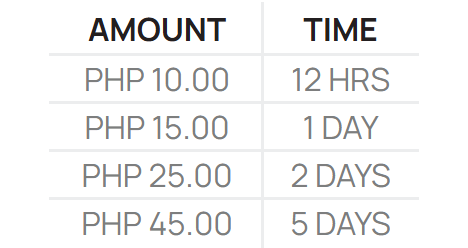
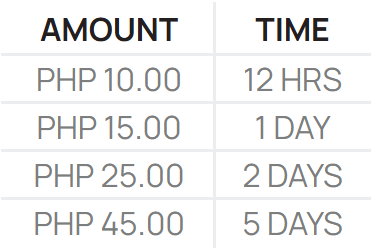
Add files via upload

diff --git a/index.css b/index.css
@@ -37,7 +37,7 @@ body.portal {
   background-attachment: fixed;
   background-color: var(--bg);
   /*background-image: url(img/bg.gif);*/
-  /*background-image: var(--bak-wall);*/
+  background-image: var(--bak-wall);
 }
 
 .disable-text-selection {
@@ -67,18 +67,14 @@ body.portal {
 }
 
 .oper-section-item {
-  font-size: 18px;
-  font-weight: 400;
+  font-size: 16px;
+  font-weight: 500;
   display: block;
-  margin-left: auto;
-  margin-top: 10px;
-  margin-right: auto;
-  margin-bottom: 15px;
+  margin-top: 20px;
+  margin-bottom: 10px;
   text-align: left;
-  border-radius: 24px;
   border: 2px solid var(--voucherline);
   width: 100%;
-  padding: 12px;
   text-decoration: none;
 }
 
@@ -87,10 +83,9 @@ body.portal {
 }
 
 ::placeholder {
-  font-size: 18px;
+  font-size: 16px;
   font-weight: 500;
   color: var(--voucherlight);
-  letter-spacing: normal;
 }
 
 .input {
@@ -98,7 +93,9 @@ body.portal {
   margin-left: auto;
   margin-right: auto;
   text-align: center;
-  font-size: 18px;
+  padding-top: 14px;
+  padding-bottom: 14px;
+  font-size: 16px;
   font-weight: 500;
   border-radius: 50px;
   background-color: var(--card);
@@ -117,7 +114,7 @@ body.portal {
 
 /* Start of input name */
 .inputName {
-  font-size: 18px;
+  font-size: 16px;
   font-weight: 500;
   color: rgb(55, 71, 79);
   text-align: left;
@@ -173,7 +170,7 @@ body.portal {
   font-family: "space-tech-italic", sans-serif;
   color: rgba(224, 74, 178);
   font-size: 40px;
-  font-weight: 400;
+  font-weight: 500;
   text-align: center;
   text-transform: lowercase;
   margin: 0;
@@ -188,9 +185,8 @@ body.portal {
   font-weight: 500;
   font-size: 14px;
   text-align: center;
-  letter-spacing: 1px;
   padding-top: 10px;
-  padding-bottom: 20px;
+  padding-bottom: 10px;
 }
 /* End of Main Greeting */
 
@@ -203,13 +199,6 @@ body.portal {
   width: min(90% - 0rem, var(--max-width));
   border-radius: 36px;
   align-items: center;
-  padding-top: 12px;
-  padding-bottom: 0px;
-  padding-left: 0px;
-  padding-right: 0px;
-  margin-left: auto;
-  margin-right: auto;
-  margin-bottom: 20px;
   clear: both;
 }
 .form-glass {

diff --git a/css/reinvent.css b/css/reinvent.css
@@ -136,22 +136,15 @@ form.sign-in-form {
 }
 
 .btn {
-  width: 150px;
   background-color: var(--rates);
-  height: 49px;
   border-radius: 50px;
   color: var(--ratestext);
-  text-transform: uppercase;
-  font-weight: 600;
-  margin: 10px 0;
 }
 
 .panels-container {
   position: absolute;
   height: 100%;
   width: 100%;
-  top: 0;
-  left: 0;
   display: grid;
   grid-template-columns: repeat(2, 1fr);
 }
@@ -171,28 +164,32 @@ form.sign-in-form {
 }
 
 .image {
-  width: 100%;
-  height: auto;
+  width: 300px;
+  height: 300px;
+  background-color: var(--rates);
+  border: 50px solid var(--inslight);
+  border-radius: 50%;
+  display: flex;
+  justify-content: center;
+  align-items: center;
   transition: 1.5s ease-in-out;
 }
 
 .panel {
   display: flex;
   flex-direction: column;
-  align-items: flex-end;
-  justify-content: space-around;
+  align-items: center;
+  justify-content: center;
   text-align: center;
   z-index: 6;
 }
 
 .left-panel {
   pointer-events: all;
-  padding: 3rem 17% 2rem 12%;
 }
 
 .right-panel {
   pointer-events: none;
-  padding: 3rem 12% 2rem 17%;
 }
 
 .panel .content {
@@ -212,13 +209,14 @@ form.sign-in-form {
 }
 
 .btn.transparent {
-  margin: 0;
   background: var(--rates);
-  width: 180px;
-  height: 40px;
+  padding-top: 14px;
+  padding-bottom: 14px;
+  width: 200px;
   font-weight: 500;
   font-size: 16px;
-  border:none;
+  border: none;
+  margin-bottom: 20px;
 }
 
 .btn.transparent:hover,
@@ -298,7 +296,6 @@ form.sign-in-form {
     flex-direction: row;
     justify-content: space-around;
     align-items: center;
-    padding: 2.5rem 8%;
     grid-column: 1 / 2;
   }
 
@@ -311,12 +308,10 @@ form.sign-in-form {
   }
 
   .image {
-    width: 250px;
     transition: 1.5s ease-in-out;
   }
 
   .panel .content {
-    padding-right: 15%;
     transition: transform 1s ease-in-out;
   }
 
@@ -375,7 +370,7 @@ form.sign-in-form {
     display: block;
   }
   .panel .content {
-    padding: 0.5rem 1rem;
+    padding: 0.5rem 2rem;
   }
   .container {
     padding: 1.5rem;

diff --git a/index.html b/index.html
@@ -121,7 +121,7 @@
                            </script>
 
                            <button id="button-login" class="button oper-section-item" type="submit">
-                              <p>Tara, G!</p>
+                              <p>Log In</p>
                            </button>
 
                            <br />
@@ -164,7 +164,7 @@
                            <!-- Scrollable text for instructions -->
                            <div class="instructions-container">
                               <div class="ins-con">
-                                 <p>1. Connect to <b>G_VOUCHER WIFI.</b></p>
+                                 <p>1. Connect to <b>G VOUCHER WIFI.</b></p>
                                  <p>2. Open your <b id="gcash">GCash</b> app.</p>
                                  <p>3. Send the exact amount to:
                                     <br><b id="number">0991 929 9217</b> or scan the <b>QR code.</b>
@@ -191,14 +191,14 @@
                <div class="content">
                   <button class="btn transparent" id="sign-up-btn">SEE RATES</button>
                </div>
-               <img src="img/log.png" class="image" alt="" />
+               <div class="image"></div>
             </div>
 
             <div class="panel right-panel">
                <div class="content">
                   <button class="btn transparent" id="sign-in-btn">CONNECT NOW</button>
                </div>
-               <img src="img/log.png" class="image" alt="" />
+               <div class="image"></div>
             </div>
          </div>
       </div>

diff --git a/css/rate.css b/css/rate.css
@@ -23,9 +23,9 @@ html {
   text-align: center;
   margin-left: auto;
   margin-right: auto;
-  margin-bottom: 15px;
+  margin-bottom: 10px;
   border-radius: 36px;
-  padding: 15px;
+  padding: 20px;
   background-color: var(--card);
   --max-width: 18rem;
   width: min(90% - 0rem, var(--max-width));
@@ -39,7 +39,6 @@ html {
 .thead th {
   background: #231f20;
   color: var(--clr-rates-th-text);
-  letter-spacing: 3px;
   word-spacing: 3px;
   padding: 5px;
 }
@@ -48,7 +47,6 @@ html {
   font-size: 10px;
   background: #231f20;
   color: var(--clr-rates-th-text);
-  letter-spacing: 0px;
   word-spacing: 0px;
   padding: 10px;
 }

diff --git a/css/auto-popup.css b/css/auto-popup.css
@@ -13,8 +13,8 @@ html {
 
 * {
   font-family: "sf-pro-regular", sans-serif;
-  font-size: 18px;
-  font-weight: 400;
+  font-size: 16px;
+  font-weight: 500;
   margin: 0;
   padding: 0;
   box-sizing: border-box;
@@ -38,7 +38,6 @@ html {
  justify-content: center;
  align-items: center;
  flex-direction: column;
- margin: 20px;
  padding: 20px;
  border-radius: 36px;
  --max-width: 18rem;
@@ -56,12 +55,12 @@ html {
 .popup-logo {
   height: 100px;
   width: auto;
-  margin-top: -14px;
 }
 
 .popup-promo {
-  width: 300px;
   margin-bottom: 10px;
+  height: auto;
+  width: 100%;
 }
 
 .popup-box a{

diff --git a/css/theme.css b/css/theme.css
@@ -30,14 +30,15 @@ html {
   --logintext: rgb(255, 255, 255);
   --voucherdark: rgb(35 31 32);
   --voucherlight: rgb(125 126 126);
-  --voucherline: #ecedee;
+  --voucherline: rgb(125 126 126);
   --rates: rgb(125 126 126);
   --ratestext: rgb(255, 255, 255);
-  --brand: rgb(125 126 126);
+  --brand: rgb(89 90 90);
   --bg: #ecedee;
   --Lcircle: rgb(35 31 32);
   --insdark: rgb(35 31 32);
-  --inslight: rgb(125 126 126);
+  --inslight: rgb(89 90 90);
+  --bak-wall: url(wallpaper.jpg);
 }
 
 .auto-grid {

diff --git a/css/popcheck.css b/css/popcheck.css
@@ -22,16 +22,16 @@ html {
 }
 
 .popcheck {
-  --max-width: 30rem;
-  width: min(90% - 0rem, var(--max-width));
-  background: rgb(255 255 255);
+  --max-width: 20rem;
+  width: min(100% - 0rem, var(--max-width));
+  background-color: var(--card);
   border-radius: 36px;
   display: block;
   position: absolute;
   text-align: center;
-  padding: 5px;
+  padding: 6px;
   visibility: hidden;
-  top: 82px;
+  top: 77px;
 }
 .open-popup {
   visibility: visible;

diff --git a/css/modal.css b/css/modal.css
@@ -15,7 +15,6 @@
   text-align: center;
   --max-width: 18rem;
   width: min(90% - 0rem, var(--max-width));
-  box-shadow: 0px 0px 20px 20px var(--bg);
 }
 
 .close-button {
@@ -55,9 +54,8 @@
 
 .image-container img {
   width: 100%; /* Responsive images */
-  max-height: 150px;
+  max-height: 180px;
   object-fit: contain; /* Preserve aspect ratio */
-  border-radius: 8px;
 }
 
 /*.image-container img:hover {*/

diff --git a/css/brand.css b/css/brand.css
@@ -25,8 +25,7 @@ html {
   font-weight: 500;
   color: var(--brand);
   float: left;
-  padding-bottom: 20px;
   text-align: center;
   width: 100%;
-  left: 0;
+  padding-top: 10px;
 }
